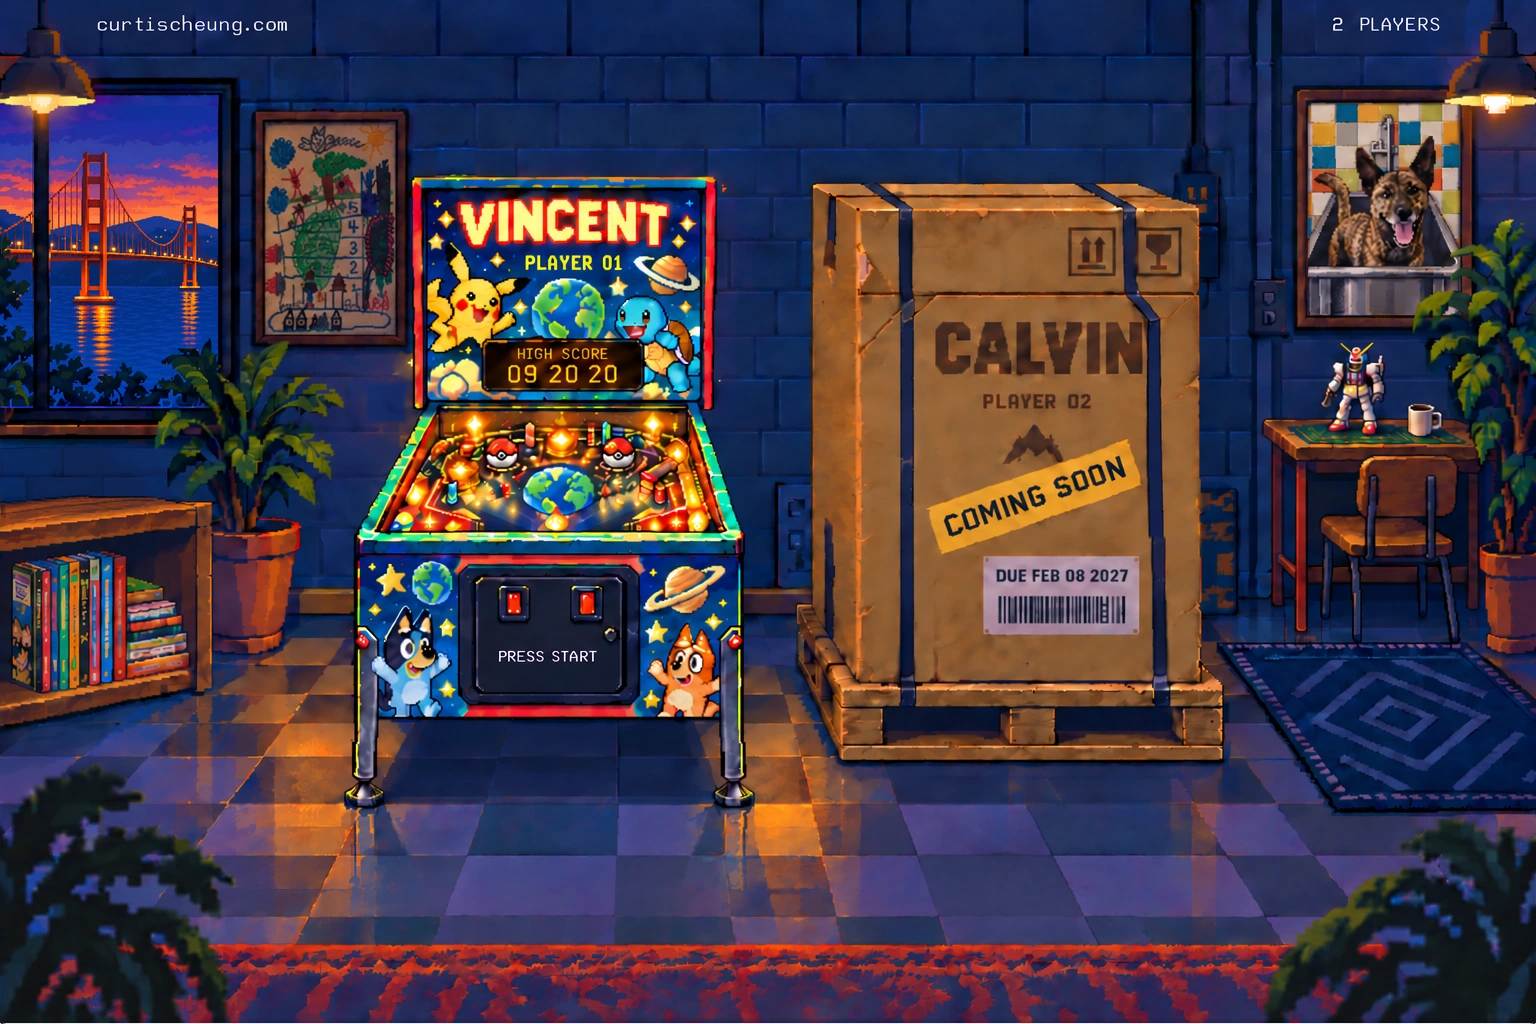
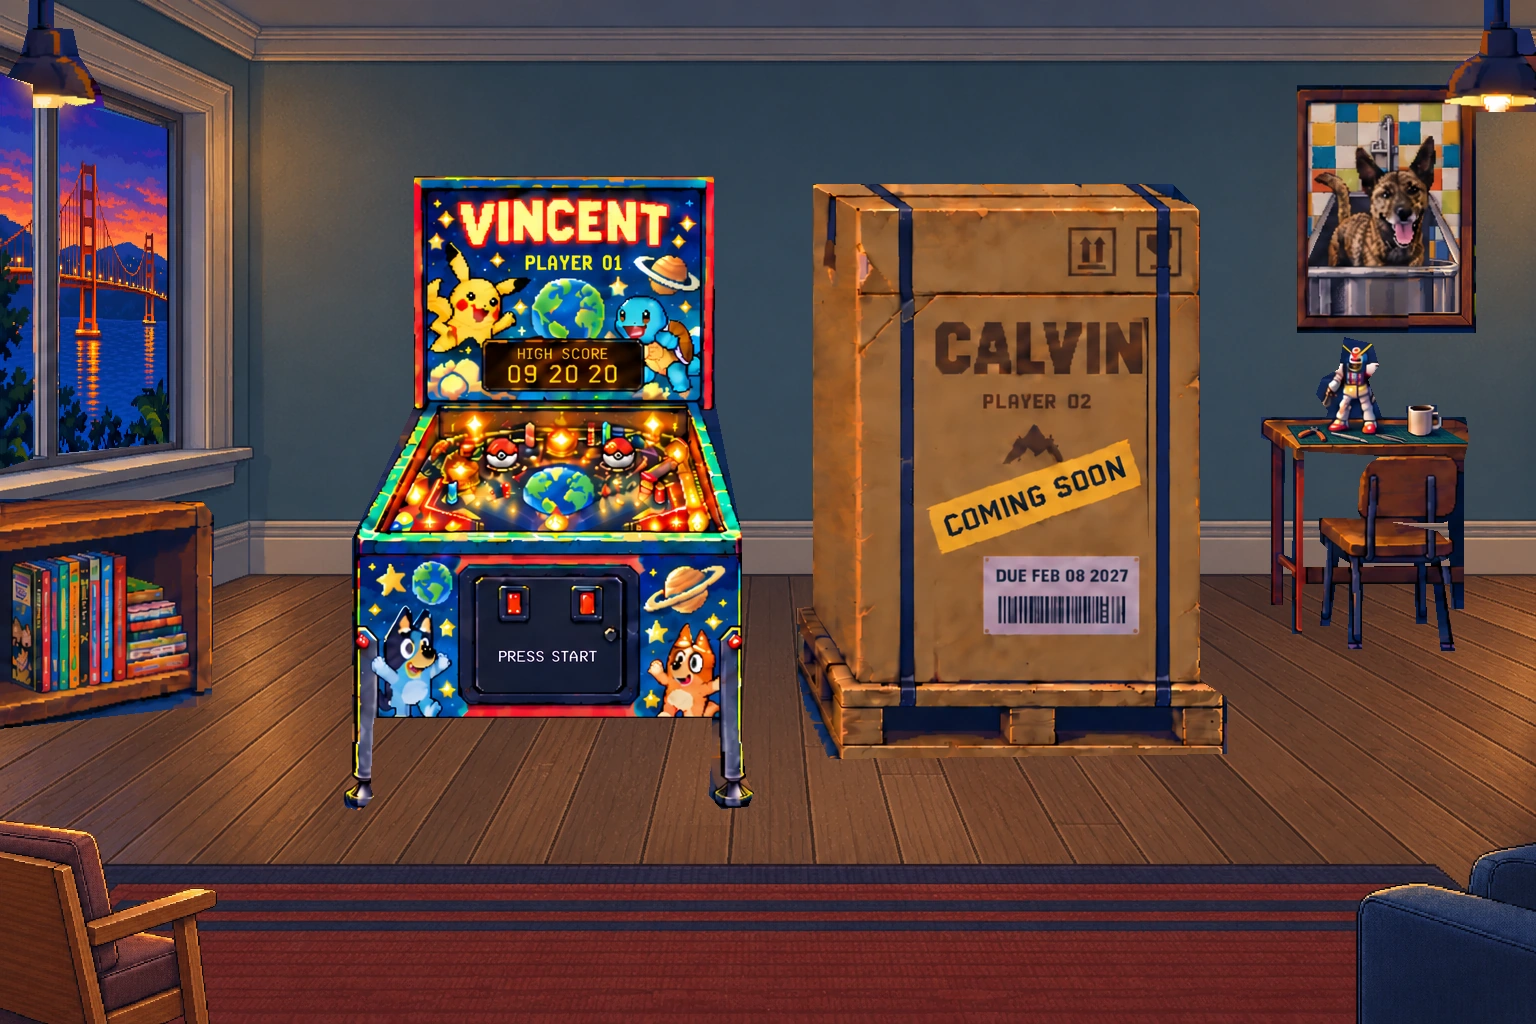
Refine hobby room artwork and calm marquee lighting

diff --git a/scene.js b/scene.js
@@ -74,6 +74,24 @@
     buttons: [[514, 602], [587, 602]]
   };
 
+  // The preserved outdoor artwork is seen through the new recessed sash.
+  // Remap its native lamp/reflection coordinates into the glass apertures.
+  function windowPoint(x, y) {
+    const left = x < 49;
+    const sx = left ? 0 : 49, sw = left ? 34 : 173;
+    const u = (x - sx) / sw, v = (y - 104) / 297;
+    const x1 = left ? 0 : 59, x2 = left ? 33 : 169;
+    const t1 = left ? 74 : 99, t2 = left ? 84 : 129;
+    const b1 = left ? 469 : 453, b2 = left ? 458 : 442;
+    return [Math.round(x1 + u * (x2 - x1)), Math.round((t1 + u * (t2 - t1)) * (1 - v) + (b1 + u * (b2 - b1)) * v)];
+  }
+  SCENE.bridge = SCENE.bridge.map(([x,y]) => windowPoint(x,y));
+  SCENE.shoreLights = SCENE.shoreLights.map(([x,y]) => windowPoint(x,y));
+  SCENE.waterReflections = SCENE.waterReflections.map(([x,y,width,height]) => {
+    const a=windowPoint(x,y), b=windowPoint(x+width,y+height);
+    return [a[0], a[1], Math.max(2,b[0]-a[0]), Math.max(2,b[1]-a[1])];
+  });
+
   const root = document.querySelector('.arcade');
   if (!root) return;
   const canvas = root.querySelector('.scene-animation');
@@ -247,29 +265,26 @@
       bulb(x, y, on, '115,246,178', 4, 10);
     });
 
-    const headChase = still ? 6 : Math.floor(seconds * 4.1);
     SCENE.marquee.forEach(([x, y], index) => {
-      const group = ((index - headChase) % 7 + 7) % 7;
-      const on = group < 2 ? .86 : group === 2 ? .3 : .05;
+      // Cabinet trim changes gently in three groups; there is no fast chase.
+      const group = index % 3;
+      const on = still ? .34 : .34 + Math.sin(seconds * TAU / 14 + group * TAU / 3) * .065;
       const color = index % 3 === 0 ? '255,187,70' : '80,215,242';
-      bulb(x, y, on, color, 4, 9);
+      bulb(x, y, on, color, 4, 7);
     });
 
     drawNativeAttract(seconds, still);
     drawFlippers(seconds, still);
     drawPinball(seconds, still);
 
-    SCENE.buttons.forEach(([x, y], index) => {
-      const phase = still ? .5 : (seconds + index * 1.8) % 4.1;
-      const on = phase < 1.15 || (phase > 1.46 && phase < 1.73);
-      context.fillStyle = on ? 'rgba(251,75,43,.8)' : 'rgba(89,27,35,.78)';
+    SCENE.buttons.forEach(([x, y]) => {
+      // Coin returns are continuously illuminated, like the real hardware.
+      context.fillStyle = 'rgba(251,75,43,.65)';
       context.fillRect(pixel(x - 5), pixel(y - 8), 10, 16);
-      if (on) {
-        bloom(x, y, 15, '255,75,39', .2);
-        context.fillStyle = '#ffe8aa';
-        context.fillRect(pixel(x - 2), pixel(y - 5), 2, 4);
-        context.fillRect(pixel(x - 2), pixel(y + 3), 2, 2);
-      }
+      bloom(x, y, 12, '255,75,39', .1);
+      context.fillStyle = '#ffe8aa';
+      context.fillRect(pixel(x - 2), pixel(y - 5), 2, 4);
+      context.fillRect(pixel(x - 2), pixel(y + 3), 2, 2);
     });
   }
 
@@ -288,18 +303,10 @@
       if (on > 1) bloom(x, y, radius + 5, '255,174,39', .17);
     });
 
-    const letterLead = Math.floor(seconds * 3.4) % nativeTiles.letters.length;
-    const marqueeBeat = seconds % 7.2;
-    nativeTiles.letters.forEach((tile, index) => {
-      let on = .85;
-      if (!still) {
-        const distance = (index - letterLead + 7) % 7;
-        on = distance === 0 ? 1.3 : distance === 1 ? 1.06 : .6;
-        if (marqueeBeat > 5.9 && marqueeBeat < 6.12) on = 1.3;
-        if (marqueeBeat > 6.23 && marqueeBeat < 6.38) on = .44;
-      }
-      nativeLight(tile, on);
-    });
+    // The whole name stays warm-lit together. This tiny ten-second variation
+    // avoids individual letter flashes and keeps the sign easy to read.
+    const nameGlow = still ? .96 : .96 + Math.sin(seconds * TAU / 10) * .015;
+    nativeTiles.letters.forEach(tile => nativeLight(tile, nameGlow));
     // The birthday stays readable throughout the soft scoreboard breathing.
     const scoreGlow = still ? 1 : .93 + .23 * (.5 + .5 * Math.sin(seconds * 1.45));
     nativeLight(nativeTiles.score, scoreGlow);

diff --git a/scene.css b/scene.css
@@ -11,9 +11,11 @@ body { min-height: 100svh; }
 .arcade { width: 100%; max-width: 1920px; margin: 0 auto; }
 .scene { position: relative; width: 100%; aspect-ratio: 3 / 2; overflow: hidden; isolation: isolate; }
 .scene-art { display: block; width: 100%; height: 100%; object-fit: contain; }
+.floor-shadows { position: absolute; inset: 0; pointer-events: none; background: radial-gradient(ellipse 14% 1.6% at 35.5% 78.6%, rgba(13,20,29,.6), transparent 95%), radial-gradient(ellipse 14.6% 1.8% at 66% 74.5%, rgba(13,20,29,.48), transparent 95%), radial-gradient(ellipse 8% 1.4% at 90% 63.6%, rgba(13,20,29,.28), transparent 95%), radial-gradient(ellipse 15% 7% at 35.5% 79%, rgba(255,169,45,.12), transparent 90%); }
+.room-labels { position: absolute; top: 1.6%; left: 6.25%; right: 6.25%; display: flex; justify-content: space-between; color: #e3dfcf; font-size: clamp(6px, 1.3vw, 25px); letter-spacing: .03em; text-shadow: 0 1px 2px rgba(17,26,35,.65); pointer-events: none; }
 .scene-animation { position: absolute; inset: 0; display: block; width: 100%; height: 100%; pointer-events: none; image-rendering: pixelated; }
-.family-photo { position: absolute; left: 17.1875%; top: 11.8164%; width: 8.3984%; height: 20.6055%; display: flex; align-items: center; overflow: hidden; background: #b9a17b; box-shadow: inset 0 0 9px rgba(29, 27, 40, .55); }
-.family-photo img { display: block; width: 100%; height: auto; aspect-ratio: 1; object-fit: cover; object-position: 70% 50%; filter: saturate(.76) brightness(.82) sepia(.12); }
+.family-photo { position: absolute; left: 16.471354%; top: 13.183594%; width: 9.635417%; height: 9.472656%; padding: .195313%; overflow: hidden; background: #694834; border: 0; box-shadow: inset 0 2px 0 #a27a54, inset 2px 0 0 #926c4d, inset 0 -2px 0 #39291f, 2px 3px 0 rgba(23, 27, 33, .4); }
+.family-photo img { display: block; width: 100%; height: 100%; padding: 2.112676%; object-fit: contain; image-rendering: pixelated; background: #bbac8c; filter: saturate(.76) brightness(.82) sepia(.12); }
 
 .machine-link { position: absolute; z-index: 2; display: block; text-decoration: none; border-radius: 5px; -webkit-tap-highlight-color: rgba(110, 236, 219, .14); }
 .vincent-link { left: 22.7865%; top: 17.0898%; width: 26.3672%; height: 61.3281%; }
@@ -24,9 +26,11 @@ body { min-height: 100svh; }
   .machine-link:hover { box-shadow: inset 0 0 0 1px rgba(255, 232, 180, .18); }
 }
 
-.motion-toggle { position: absolute; z-index: 3; top: .55%; right: 15.1%; display: grid; place-items: center; width: clamp(30px, 2.7vw, 42px); height: clamp(30px, 2.7vw, 42px); padding: 0; border: 0; border-radius: 3px; background: rgba(12, 23, 45, .28); color: #c7d2df; opacity: .62; cursor: pointer; touch-action: manipulation; }
+.motion-toggle { position: absolute; z-index: 3; top: .55%; right: 15.1%; display: grid; place-items: center; width: clamp(30px, 2.7vw, 42px); height: clamp(30px, 2.7vw, 42px); padding: 0; border: 0; border-radius: 3px; background: transparent; color: #c7d2df; opacity: .62; cursor: pointer; touch-action: manipulation; }
+.motion-toggle::before { content: ""; position: absolute; inset: 25%; border-radius: 2px; background: rgba(12,23,45,.16); z-index: -1; }
 .motion-toggle svg { width: 17px; height: 17px; fill: currentColor; }
-.motion-toggle:hover, .motion-toggle:focus-visible { color: #fff0d4; opacity: 1; background: rgba(12, 23, 45, .82); }
+.motion-toggle:hover, .motion-toggle:focus-visible { color: #fff0d4; opacity: 1; }
+.motion-toggle:hover::before, .motion-toggle:focus-visible::before { background: rgba(12,23,45,.48); }
 .motion-toggle:focus-visible { outline: 2px solid #fff0d4; outline-offset: 2px; }
 .play-icon { display: none; }
 [data-motion="paused"] .pause-icon { display: none; }

diff --git a/index.html b/index.html
@@ -7,15 +7,17 @@
   <meta name="robots" content="noindex, nofollow">
   <meta name="description" content="Curtis Cheung’s pixel room, with Vincent and Calvin’s arcade machines.">
   <title>Curtis Cheung · Arcade preview</title>
-  <link rel="stylesheet" href="scene.css?v=13">
-  <script defer src="scene.js?v=13"></script>
+  <link rel="stylesheet" href="scene.css?v=14">
+  <script defer src="scene.js?v=14"></script>
 </head>
 <body>
   <main class="arcade" data-motion="playing" aria-label="Curtis Cheung’s arcade room">
     <div class="scene" aria-describedby="scene-description">
-      <img class="scene-art" src="arcade-background.webp?v=13" width="1536" height="1024" fetchpriority="high" alt="A warmly lit pixel room: Vincent’s Pokémon, planets and Bluey pinball machine next to Calvin’s unopened machine, the Golden Gate Bridge outside, a family portrait, Sudo’s portrait, a collection of comics and a desk with one Gundam model.">
+      <img class="scene-art" src="arcade-background.webp?v=14" width="1536" height="1024" fetchpriority="high" alt="A warmly lit pixel hobby room with plaster walls, wood trim and wood flooring: Vincent’s Pokémon, planets and Bluey pinball machine beside Calvin’s unopened machine, the Golden Gate Bridge through a recessed window, a pixel family print, Sudo’s portrait, comics, a Gunpla hobby desk, and foreground lounge furniture.">
+      <div class="floor-shadows" aria-hidden="true"></div>
+      <div class="room-labels" aria-hidden="true"><span>curtischeung.com</span><span>2 PLAYERS</span></div>
       <canvas class="scene-animation" width="768" height="512" aria-hidden="true"></canvas>
-      <div class="family-photo"><img src="family-photo.webp?v=1" alt="Curtis, Vincent and his mom smiling together with rainbow shaved ice." width="1280" height="720"></div>
+      <div class="family-photo"><img src="family-photo.webp?v=14" alt="A pixel illustration of Curtis, Vincent and his mom smiling together." width="136" height="85"></div>
       <a class="machine-link vincent-link" href="https://thevincentcheung.com" target="_blank" rel="noopener noreferrer" aria-label="Visit Vincent’s website — Player 01"><span class="sr-only">Vincent · Player 01 · High score 09 20 20</span></a>
       <a class="machine-link calvin-link" href="https://thecalvincheung.com" target="_blank" rel="noopener noreferrer" aria-label="Visit Calvin’s website — Player 02"><span class="sr-only">Calvin · Player 02 · Due February 08, 2027</span></a>
       <button class="motion-toggle" type="button" aria-label="Pause animation" aria-pressed="true" title="Pause animation">

diff --git a/README.md b/README.md
@@ -2,10 +2,12 @@
 
 Temporary preview for isaaccheung.com. The Vincent site remains separate.
 
-Open index.html through a local HTTP server. Both machines link to their player sites. The scene uses a 1536×1024 plate, a transparent cat pose atlas, one flipper sprite, and the unchanged supplied family photo inside its original frame.
+Open index.html through a local HTTP server. Both machines link to their player sites. The scene uses a 1536×1024 plate, a transparent cat pose atlas, one flipper sprite, and a stylized pixel family print in a fitted landscape frame.
 
-The canvas runs at 30 fps and 768×512 pixels. Native painted lamps have cached dim and bright variants; the ball and flippers share a timed path. Steam is filled vapor rather than strokes. Pausing freezes all motion together; reduced-motion settings start with a still scene. Hidden or offscreen scenes suspend animation.
+The room has plaster walls, painted wood trim, a recessed sash window and wood flooring. The preserved bridge artwork and its blinking lights are resampled into the glass apertures. A simple striped foreground rug, chair and sofa replace the foreground plants. The hobby desk has a cutting mat, nippers, a knife and tweezers beside one model. Calvin’s right strap forms one straight continuous band.
 
-Assets and prompt provenance are recorded in asset-notes.json. Rejected face and cat drafts are preserved outside the published files.
+The canvas runs at 30 fps and 768×512 pixels. Native painted lamps have cached dim and bright variants; the ball and flippers share a timed path. Coin buttons stay illuminated. VINCENT lettering has only a subtle unified variation, and the marquee trim changes slowly. Steam is filled vapor rather than strokes. Pausing freezes all motion together; reduced-motion settings start with a still scene. Hidden or offscreen scenes suspend animation.
+
+Assets and prompt provenance are recorded in the local authoring workspace at mockups/curtis-arcade/lofi-v8/asset-notes.json. Generation drafts and QA images remain outside the published files.
 
 The previous Isaac coming-soon page is preserved at commit 8df78afc2f3d2639969c875477765aa414343f1b in the Isaac repository. To restore it, revert the temporary preview commits while retaining CNAME and .nojekyll.
